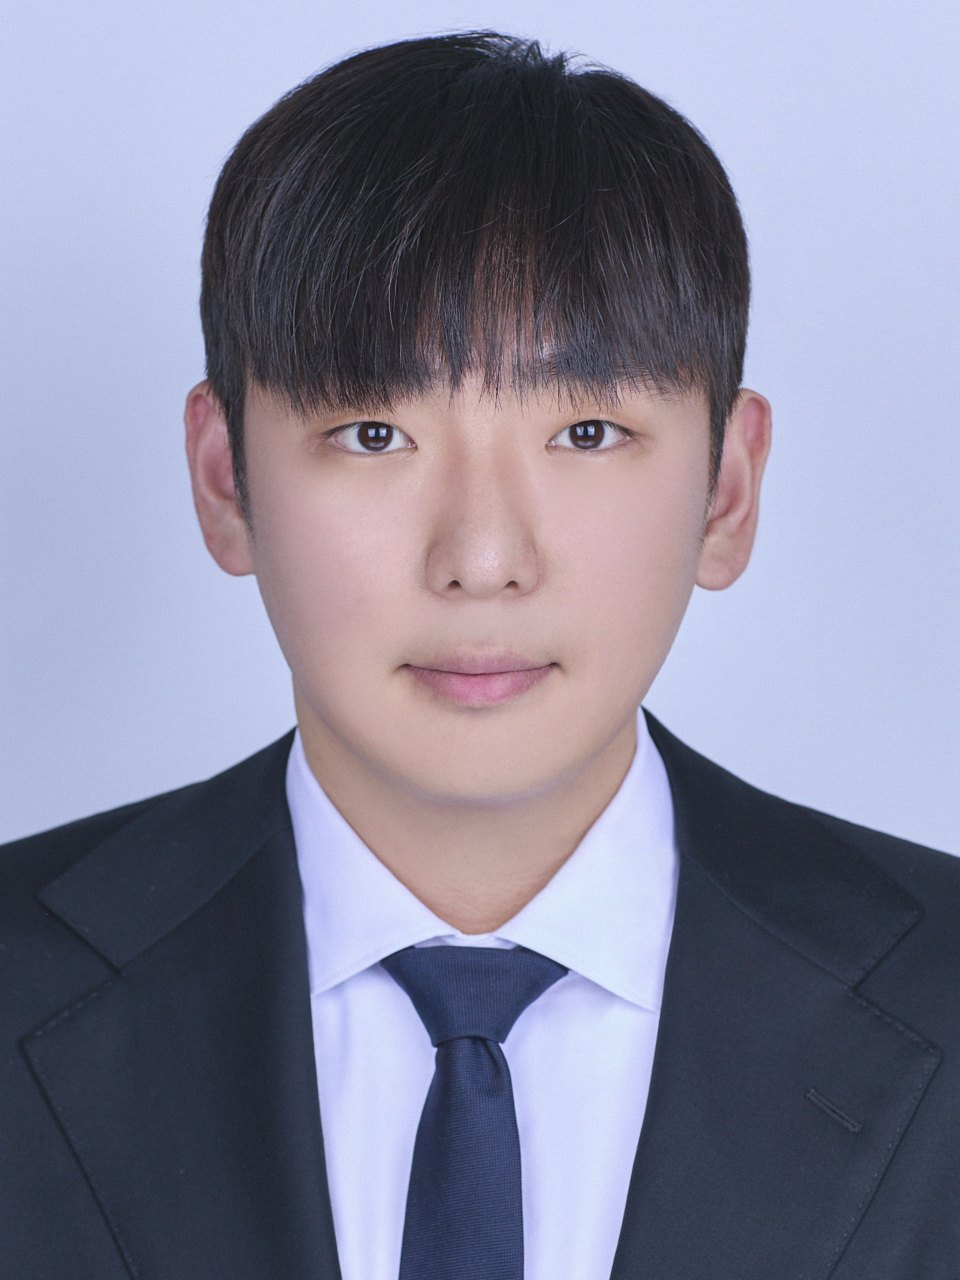
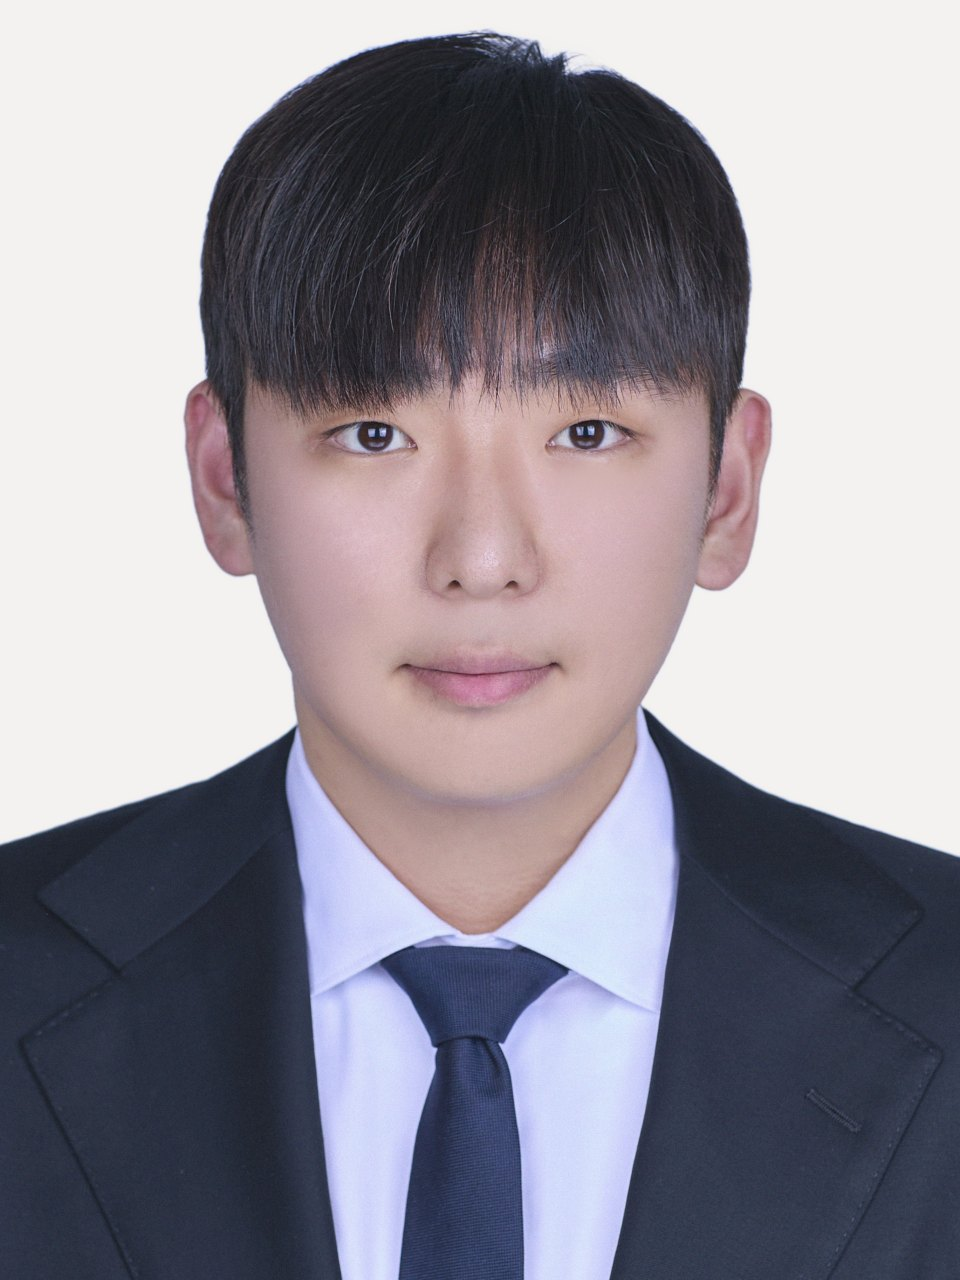
구성원 사진의 배경을 한 색으로, 최우진 관심 주제는 VLM 으로
증명사진 배경이 흰색·회색·라벤더로 제각각이라 명단에 나란히 놓으면 네 장의 배경이
네 색이었다. Vision 인물 분리(scripts/person-mask.swift, 로컬)로 사람만 떼어
#f3f2f0 위에 얹는다(fit-portrait.py --bg). 머리카락 가장자리는 몇 px 부드럽게.

최우진: V2X → 비전-언어 모델(VLM) · 주행 장면 이해 · 멀티모달 인식.

diff --git a/scripts/person-mask.swift b/scripts/person-mask.swift
@@ -1,0 +1,30 @@
+// 사진에서 사람 영역의 마스크(흰색 = 사람)를 PNG 로 낸다 — macOS Vision, 로컬.
+//   swift scripts/person-mask.swift <사진> <마스크.png>
+// 증명사진의 배경색이 사람마다 달라(회색·라벤더·흰색) 명단에 나란히 놓으면 네 장의
+// 배경이 네 색이었다. 사람만 떼어 같은 배경 위에 얹으려고 쓴다(fit-portrait.py --bg).
+import Foundation
+import Vision
+import AppKit
+import CoreImage
+
+let args = CommandLine.arguments
+guard args.count >= 3, let img = NSImage(contentsOfFile: args[1]),
+      let cg = img.cgImage(forProposedRect: nil, context: nil, hints: nil) else {
+  FileHandle.standardError.write("cannot read image\n".data(using: .utf8)!)
+  exit(2)
+}
+let req = VNGeneratePersonSegmentationRequest()
+req.qualityLevel = .accurate
+req.outputPixelFormat = kCVPixelFormatType_OneComponent8
+try VNImageRequestHandler(cgImage: cg, options: [:]).perform([req])
+guard let buf = req.results?.first?.pixelBuffer else {
+  FileHandle.standardError.write("no mask\n".data(using: .utf8)!)
+  exit(3)
+}
+let ci = CIImage(cvPixelBuffer: buf)
+let ctx = CIContext()
+guard let out = ctx.createCGImage(ci, from: ci.extent) else { exit(4) }
+let rep = NSBitmapImageRep(cgImage: out)
+guard let png = rep.representation(using: .png, properties: [:]) else { exit(5) }
+try png.write(to: URL(fileURLWithPath: args[2]))
+print("\(out.width)x\(out.height)")

diff --git a/src/data/people.ts b/src/data/people.ts
@@ -144,9 +144,9 @@ export const MEMBERS: Person[] = [
     role: UNDERGRAD,
     photo: '/images/people/choi-woojin.jpg',
     topics: [
-      { en: 'Connected vehicles (V2X)', ko: 'V2X 커넥티드 차량' },
-      { en: 'Cooperative driving', ko: '협력 주행' },
-      { en: 'Vehicle trajectory data', ko: '차량 궤적 데이터' },
+      { en: 'Vision-language models (VLM)', ko: '비전-언어 모델(VLM)' },
+      { en: 'Driving scene understanding', ko: '주행 장면 이해' },
+      { en: 'Multimodal perception', ko: '멀티모달 인식' },
     ],
   },
 ];

diff --git a/scripts/fit-portrait.py b/scripts/fit-portrait.py
@@ -23,6 +23,9 @@
 기준으로 맞추면 학생 사진을 **축소**해야 하고 가슴 아래에 없는 부분을 채워야 했다
 (늘린 정장이 줄무늬가 된다). 넷 중 가장 타이트한 사진이 채움 없이 들어가는 값이
 0.53 이고, 교수님 사진은 그만큼 더 확대·크롭했다. 새 구성원도 같은 값으로 낸다.
+
+`--bg #f3f2f0` 을 주면 배경을 그 색으로 통일한다(Vision 인물 분리, `person-mask.swift`).
+증명사진의 배경은 흰색·회색·라벤더로 제각각이라 나란히 놓으면 얼룩이 됐다.
 """
 import argparse
 import os
@@ -92,6 +95,34 @@ def background(im: np.ndarray) -> tuple:
     return tuple(int(v) for v in np.median(patch, axis=0))
 
 
+def person_mask(path: str, shape) -> np.ndarray | None:
+    """Vision 인물 분리 마스크(0~1, 사진 크기). 실패하면 None."""
+    here = os.path.dirname(os.path.abspath(__file__))
+    tmp = tempfile.NamedTemporaryFile(suffix=".png", delete=False).name
+    r = subprocess.run(["swift", os.path.join(here, "person-mask.swift"), path, tmp], capture_output=True, text=True)
+    if r.returncode != 0:
+        return None
+    m = cv2.imread(tmp, cv2.IMREAD_GRAYSCALE)
+    os.unlink(tmp)
+    if m is None:
+        return None
+    m = cv2.resize(m, (shape[1], shape[0]), interpolation=cv2.INTER_LINEAR).astype(np.float32) / 255.0
+    # 머리카락 가장자리를 몇 px 부드럽게 — 칼로 오린 듯한 윤곽을 피한다
+    k = max(3, (min(shape[:2]) // 300) | 1)
+    return cv2.GaussianBlur(m, (k, k), 0)
+
+
+def replace_background(im: np.ndarray, path: str, hex_color: str) -> np.ndarray:
+    """사람만 남기고 배경을 한 색으로. 증명사진 배경이 사람마다 달라서 명단이 얼룩졌다."""
+    m = person_mask(path, im.shape)
+    if m is None:
+        sys.exit("인물 분리에 실패했다 — Vision 이 없는 환경이면 --bg 를 빼고 돌려라")
+    c = hex_color.lstrip("#")
+    bgr = np.array([int(c[4:6], 16), int(c[2:4], 16), int(c[0:2], 16)], dtype=np.float32)
+    a = m[..., None]
+    return (im.astype(np.float32) * a + bgr * (1 - a)).astype(np.uint8)
+
+
 def fit(im: np.ndarray, face_w_rel: float, eye_rel: float, path: str) -> np.ndarray:
     cx, eye_y, fw = face_of(im, path)
     s = (face_w_rel * OUT_W) / fw  # 배율 — 얼굴 폭을 기준에 맞춘다
@@ -129,6 +160,7 @@ def main() -> None:
     ap.add_argument("--quality", type=int, default=86)
     ap.add_argument("--face", type=float, help="틀 폭 대비 얼굴 폭. 주면 --ref 대신 이 값")
     ap.add_argument("--eye", type=float, help="틀 높이 대비 눈높이. 주면 --ref 대신 이 값")
+    ap.add_argument("--bg", help="배경을 이 색(#rrggbb)으로 통일한다 — 사람만 남기고 바꾼다")
     a = ap.parse_args()
 
     if a.face is not None and a.eye is not None:
@@ -142,7 +174,10 @@ def main() -> None:
         face_w_rel = a.face if a.face is not None else ref_fw / rw
         eye_rel = a.eye if a.eye is not None else ref_eye / ref_win_h
 
-    out = fit(load(a.src), face_w_rel, eye_rel, a.src)
+    src = load(a.src)
+    if a.bg:
+        src = replace_background(src, a.src, a.bg)
+    out = fit(src, face_w_rel, eye_rel, a.src)
     os.makedirs(os.path.dirname(os.path.abspath(a.dst)), exist_ok=True)
     cv2.imwrite(a.dst, out, [cv2.IMWRITE_JPEG_QUALITY, a.quality])
     cx, ey, fw = face_of(out, a.dst)

diff --git a/AGENTS.md b/AGENTS.md
@@ -86,7 +86,7 @@ grep -rnE "\.arc\(" src/hooks src/components                        # 캔버스 
 |---|---|
 | 논문 추가 | `src/data/publications.ts` — 배열 맨 앞에 한 항목 |
 | 뉴스 추가 | `src/data/news.ts` |
-| 구성원 추가 | `src/data/people.ts` 의 `MEMBERS`. 사진은 원본을 `pic/`(git 무시)에 두고 `python3 scripts/fit-portrait.py pic/원본 public/images/people/<id>.jpg --face 0.53 --eye 0.34` 로 낸 사본만 넣는다 — 얼굴 폭·눈높이가 전원 같아진다(macOS Vision, 로컬) |
+| 구성원 추가 | `src/data/people.ts` 의 `MEMBERS`. 사진은 원본을 `pic/`(git 무시)에 두고 `python3 scripts/fit-portrait.py pic/원본 public/images/people/<id>.jpg --face 0.53 --eye 0.34 --bg '#f3f2f0'` 로 낸 사본만 넣는다 — 얼굴 폭·눈높이·배경색이 전원 같아진다(macOS Vision 얼굴·인물 분리, 로컬) |
 | 강의 추가 | `src/data/teaching.ts` |
 | 연구분야 수정 | `src/data/research.ts` |
 | 연락처·주소 | `src/data/site.ts` |
